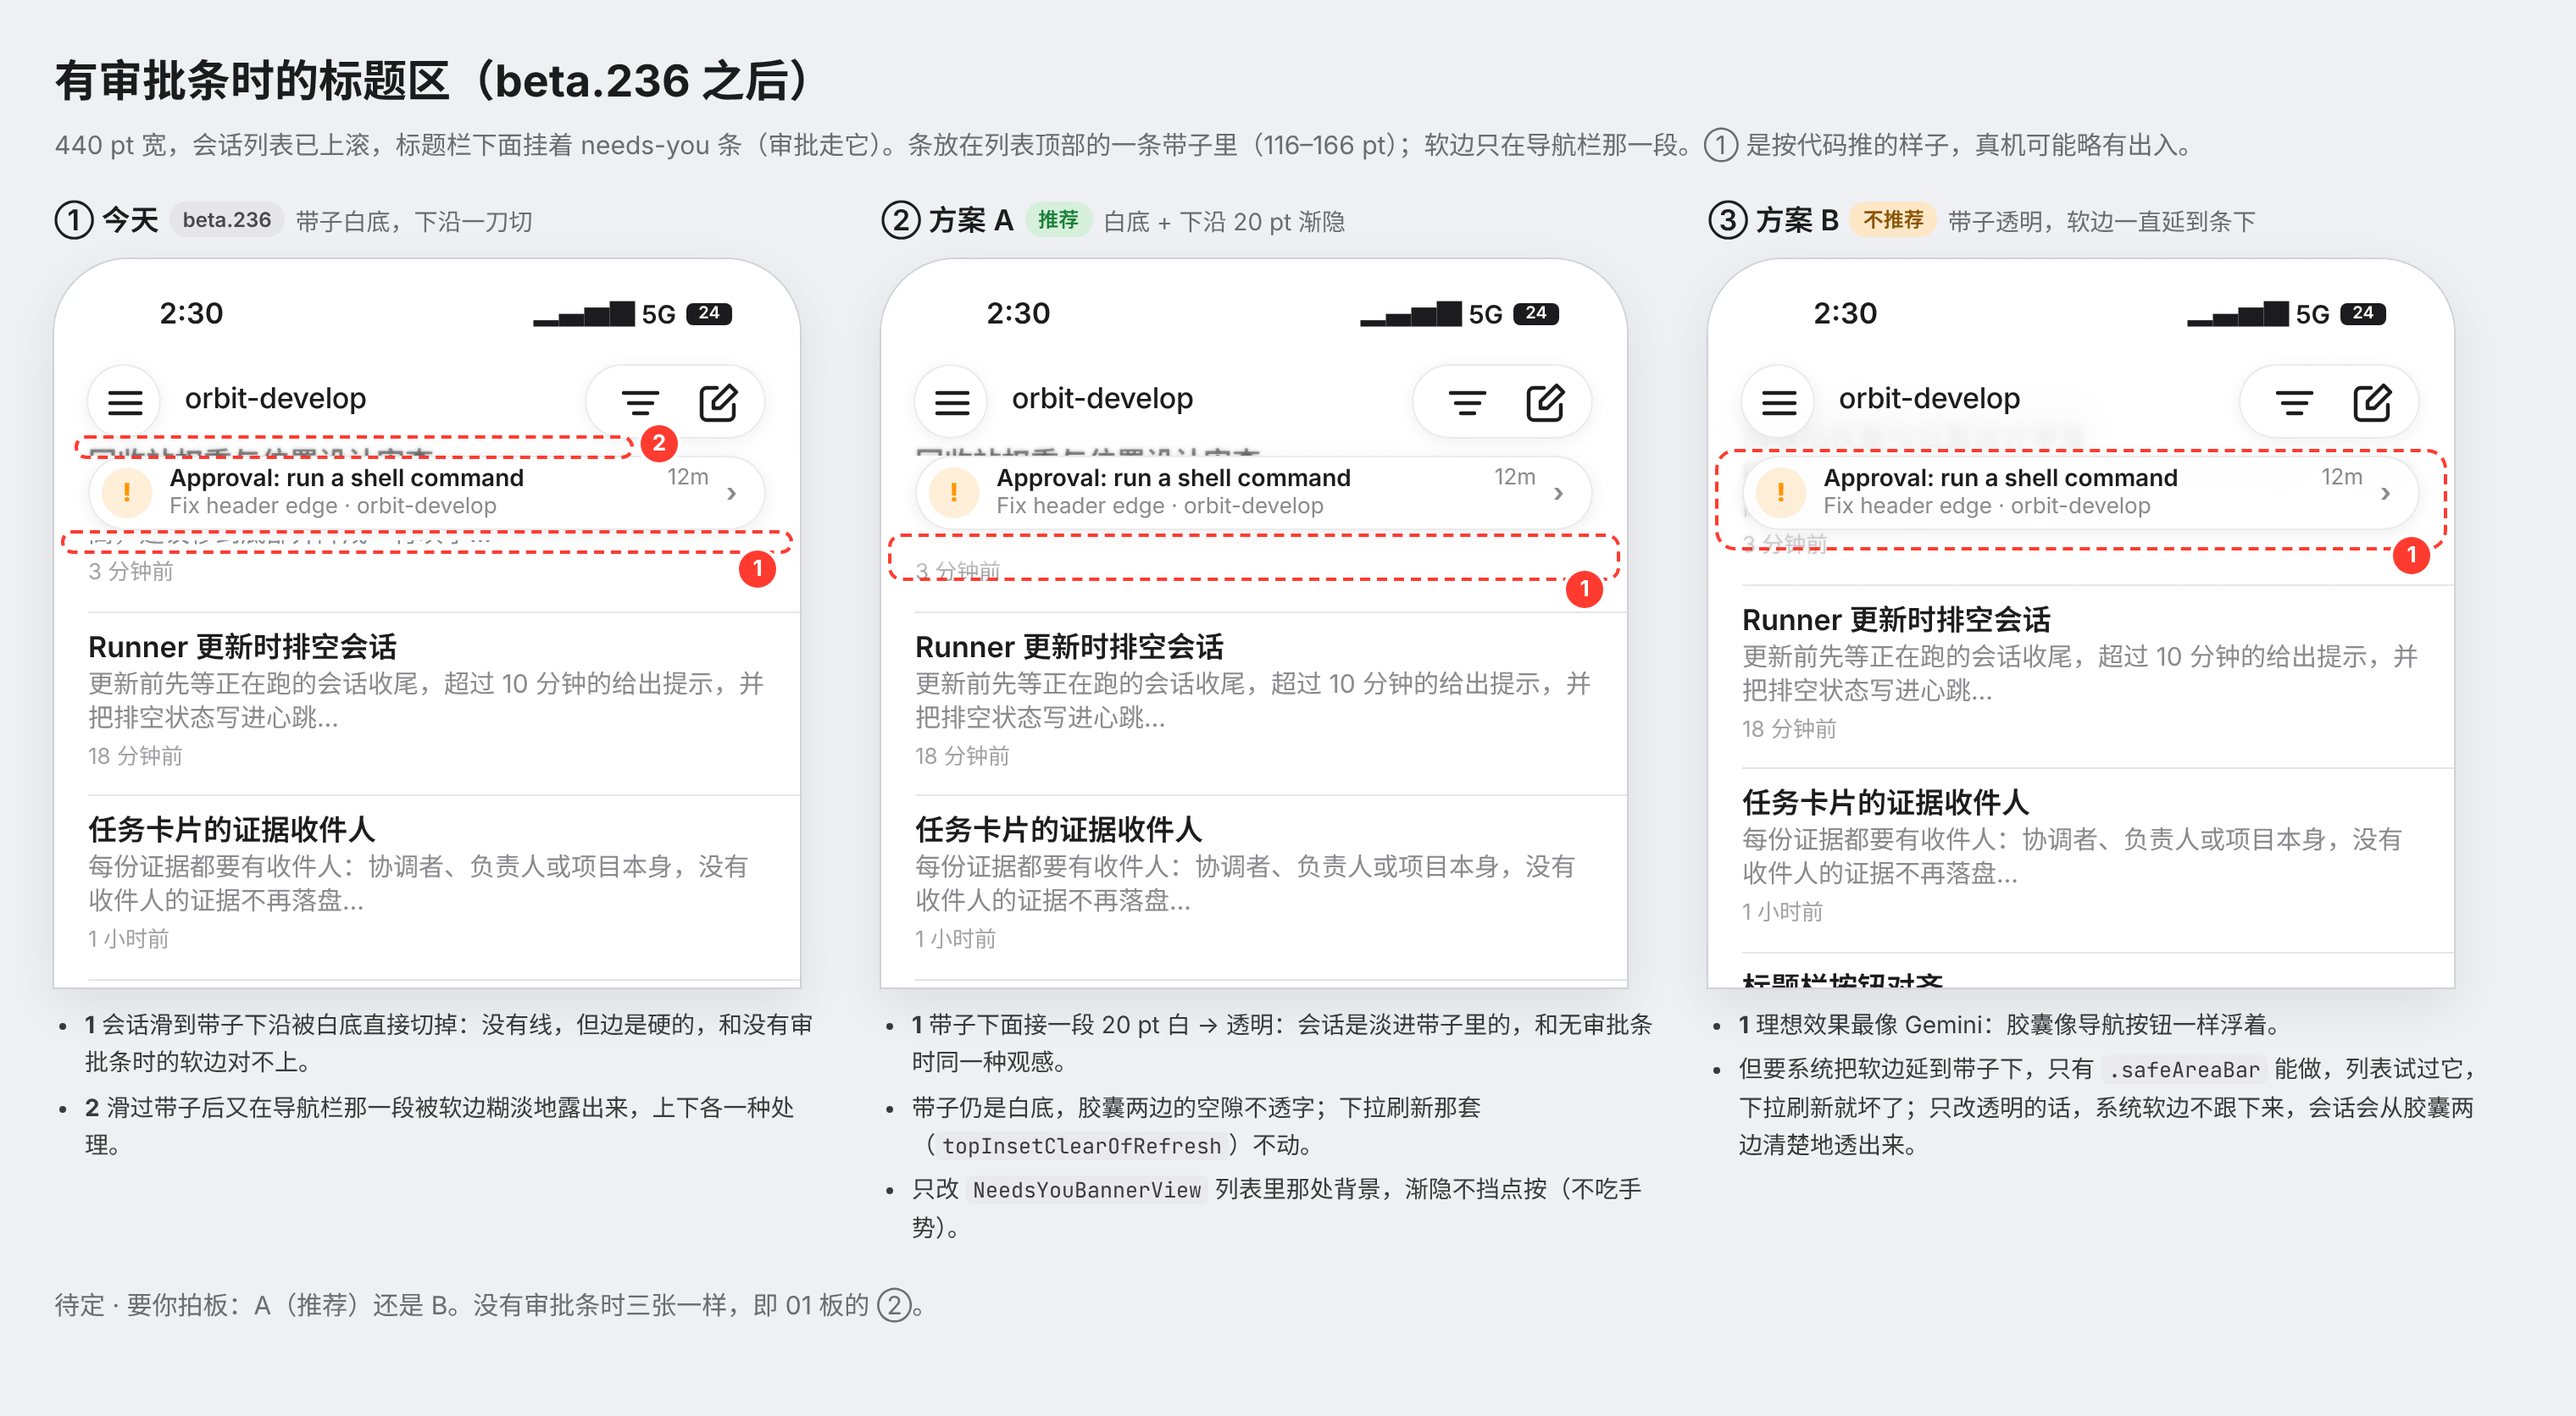
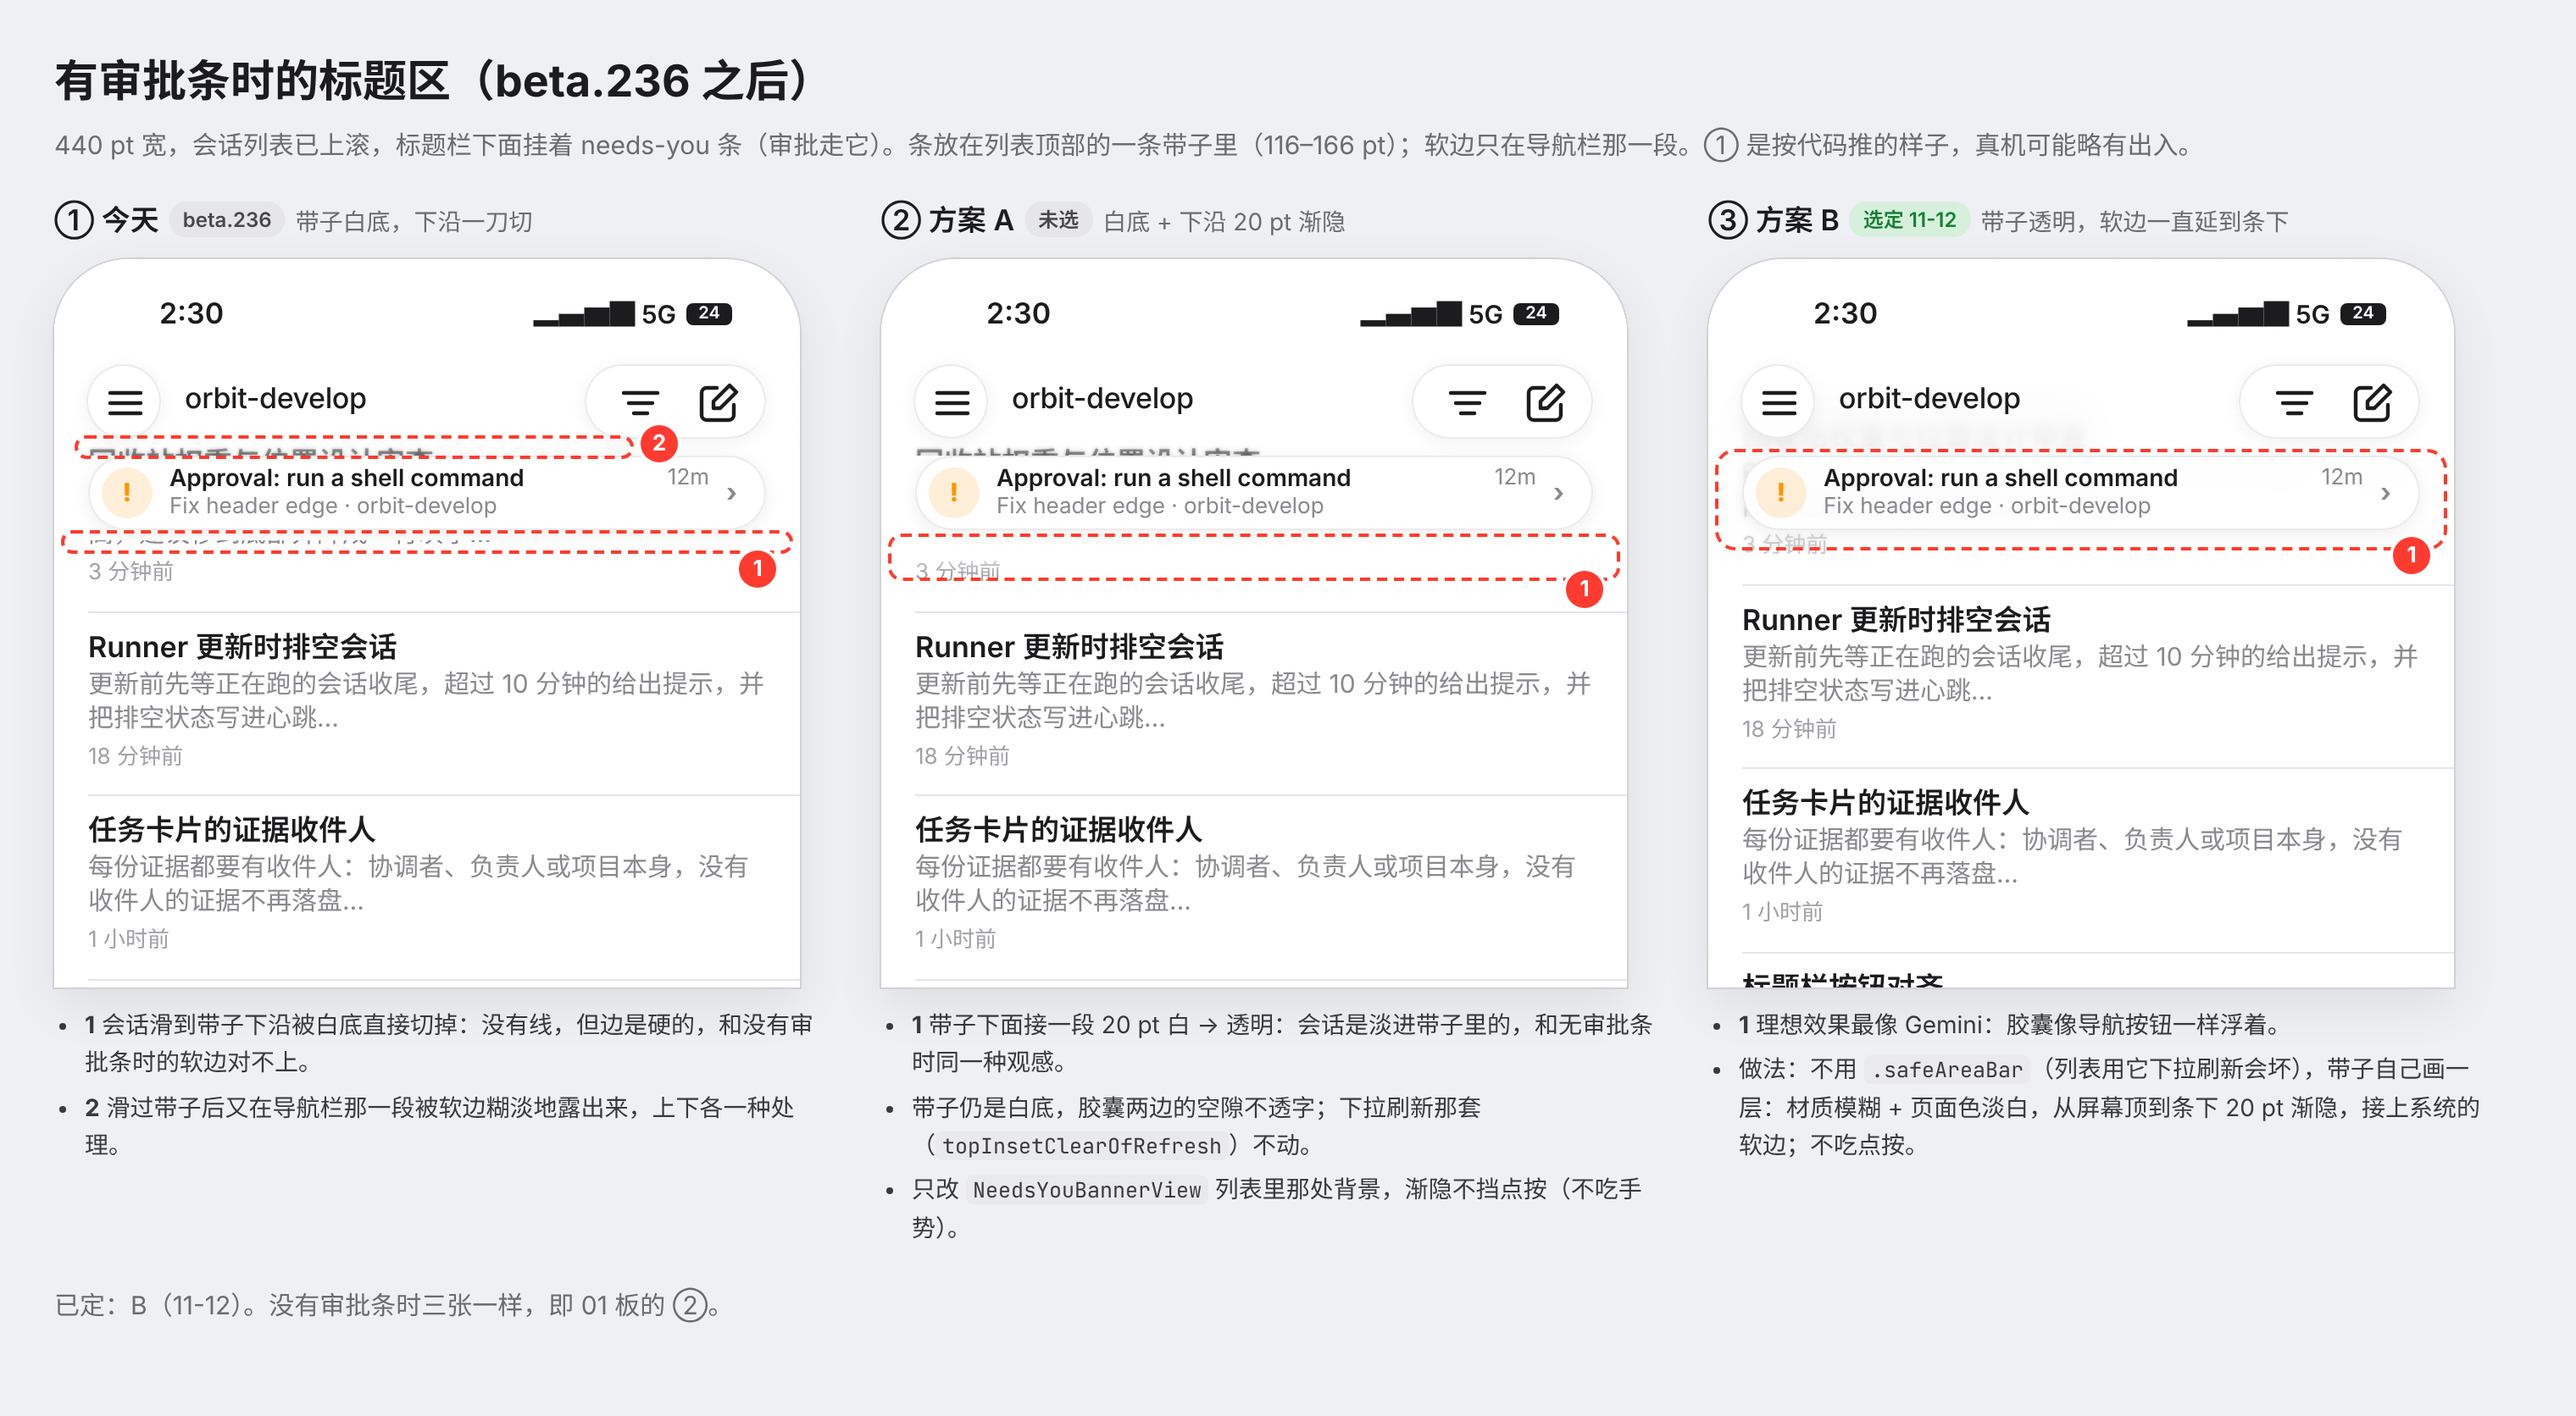
feat(ios): the needs-you bar over the Sessions list stands on the soft edge
On iOS 26 the bar over the Sessions list no longer stands on the page's
colour, which cut the rows off hard at its lower edge. It draws the soft
edge on down under itself: a material blur and a wash of the page's colour
from the top of the screen, fading out 20pt below the bar, joining the
system's soft effect under the nav bar. Not a .safeAreaBar, which stops the
list pulling to refresh. The owner's pick: option B of board 02.

Changed region(s): [[0.6562, 0.7464, 0.9688, 0.8397], [0.0312, 0.9019, 0.3438, 0.933], [0.7188, 0.1244, 0.875, 0.1866]]

diff --git a/src/macos/OrbitApp/Sources/OrbitApp/Views/NeedsYouBannerView.swift b/src/macos/OrbitApp/Sources/OrbitApp/Views/NeedsYouBannerView.swift
@@ -60,6 +60,10 @@ struct NeedsYouBannerView: View {
     /// Whether a project's sessions page opens in this shell's session column (an iPad's wide
     /// shell) rather than as a page of its own — where the merge into main's card is.
     var projectInColumn = false
+    /// Mounted over the Sessions list, which meets its nav bar with the soft scroll-edge effect
+    /// (`softTopEdgeEffect`). On iOS 26 the bar then stands on that same soft edge, drawn on down
+    /// under it, instead of on the page's colour: see `listSoftEdge`.
+    var overList = false
     /// The bar's own width, for the margin that lines it up with the nav bar's buttons.
     @State private var width: CGFloat = 0
 
@@ -173,7 +177,46 @@ struct NeedsYouBannerView: View {
                     .onChange(of: proxy.size.width) { _, now in width = now }
             }
         }
-        .background(floats ? Color.clear : Color(uiColor: .systemBackground))
+        .background { surface }
+    }
+
+    @ViewBuilder private var surface: some View {
+        if floats {
+            Color.clear
+        } else if overList {
+            if #available(iOS 26.0, *) { listSoftEdge } else { Color(uiColor: .systemBackground) }
+        } else {
+            Color(uiColor: .systemBackground)
+        }
+    }
+
+    /// The soft edge carried on down under the bar on the Sessions list (the owner, 2026-11-12,
+    /// option B of docs/mocks/ios-header-soft-edge/02-board.html). The system's soft effect sits
+    /// under the nav bar only: this bar is a top inset, not a `.safeAreaBar` (which stops the list
+    /// pulling to refresh, see `AgentPanes`), so on the page's colour the rows were cut off hard at
+    /// its lower edge. So it draws its own: a material blur and a wash of the page's colour, both
+    /// full from the top of the screen (up behind the nav bar, joining the system's) and fading to
+    /// nothing 20pt below the bar, so rows blur and fade into it rather than end at a line. It takes
+    /// no touches; the rows under it scroll as before.
+    private var listSoftEdge: some View {
+        let page = Color(uiColor: .systemBackground)
+        let fade = Gradient(stops: [
+            .init(color: .black, location: 0),
+            .init(color: .black, location: 0.6),
+            .init(color: .clear, location: 1),
+        ])
+        return ZStack {
+            Rectangle().fill(.ultraThinMaterial)
+                .mask(LinearGradient(gradient: fade, startPoint: .top, endPoint: .bottom))
+            LinearGradient(stops: [
+                .init(color: page.opacity(0.92), location: 0),
+                .init(color: page.opacity(0.7), location: 0.6),
+                .init(color: page.opacity(0), location: 1),
+            ], startPoint: .top, endPoint: .bottom)
+        }
+        .padding(.bottom, -20)
+        .ignoresSafeArea(edges: .top)
+        .allowsHitTesting(false)
     }
 }
 

diff --git a/docs/mocks/ios-header-soft-edge/02-board.html b/docs/mocks/ios-header-soft-edge/02-board.html
@@ -107,7 +107,7 @@
       </ul>
     </div>
     <div class="b-col">
-      <p class="b-cap">② 方案 A<span class="b-tag rec">推荐</span><small>白底 + 下沿 20 pt 渐隐</small></p>
+      <p class="b-cap">② 方案 A<span class="b-tag now">未选</span><small>白底 + 下沿 20 pt 渐隐</small></p>
       <div class="ph" id="p2"></div>
       <ul class="b-notes">
         <li><b>1</b> 带子下面接一段 20 pt 白 → 透明：会话是淡进带子里的，和无审批条时同一种观感。</li>
@@ -116,15 +116,15 @@
       </ul>
     </div>
     <div class="b-col">
-      <p class="b-cap">③ 方案 B<span class="b-tag alt">不推荐</span><small>带子透明，软边一直延到条下</small></p>
+      <p class="b-cap">③ 方案 B<span class="b-tag rec">选定 11-12</span><small>带子透明，软边一直延到条下</small></p>
       <div class="ph" id="p3"></div>
       <ul class="b-notes">
         <li><b>1</b> 理想效果最像 Gemini：胶囊像导航按钮一样浮着。</li>
-        <li>但要系统把软边延到带子下，只有 <code>.safeAreaBar</code> 能做，列表试过它，下拉刷新就坏了；只改透明的话，系统软边不跟下来，会话会从胶囊两边清楚地透出来。</li>
+        <li>做法：不用 <code>.safeAreaBar</code>（列表用它下拉刷新会坏），带子自己画一层：材质模糊 + 页面色淡白，从屏幕顶到条下 20 pt 渐隐，接上系统的软边；不吃点按。</li>
       </ul>
     </div>
   </div>
-  <p class="b-sub" style="margin-top:18px">待定 · 要你拍板：A（推荐）还是 B。没有审批条时三张一样，即 01 板的 ②。</p>
+  <p class="b-sub" style="margin-top:18px">已定：B（11-12）。没有审批条时三张一样，即 01 板的 ②。</p>
 </section>
 
 <script>

diff --git a/src/macos/OrbitKit/Tests/OrbitKitTests/ListHeaderEdgeWiringTests.swift b/src/macos/OrbitKit/Tests/OrbitKitTests/ListHeaderEdgeWiringTests.swift
@@ -52,6 +52,23 @@ final class ListHeaderEdgeWiringTests: XCTestCase {
         XCTAssertFalse(console.contains("softTopEdgeEffect"), "the transcript keeps the 11-11 rule")
     }
 
+    /// With the needs-you bar over the Sessions list, the soft edge carries on under the bar
+    /// (iOS 26) rather than the bar standing on the page's colour, which cut the rows off at its
+    /// lower edge (the owner, 2026-11-12, option B of 02-board.html).
+    func testTheNeedsYouBarOverTheListStandsOnTheSoftEdge() throws {
+        let sessions = section(try source(views + "AgentsView.swift"),
+                               from: ".topInsetClearOfRefresh {", to: "#endif")
+        XCTAssertTrue(sessions.contains("overList: true"), "the Sessions list mounts it over the list")
+        let banner = try source(views + "NeedsYouBannerView.swift")
+        let surface = section(banner, from: "@ViewBuilder private var surface", to: "private var listSoftEdge")
+        XCTAssertTrue(surface.contains("else if overList {"))
+        XCTAssertTrue(surface.contains("listSoftEdge"))
+        let edge = section(banner, from: "private var listSoftEdge: some View {", to: "\n}")
+        XCTAssertTrue(edge.contains(".ignoresSafeArea(edges: .top)"), "up behind the nav bar")
+        XCTAssertTrue(edge.contains(".padding(.bottom, -20)"), "fading out 20pt below the bar")
+        XCTAssertTrue(edge.contains(".allowsHitTesting(false)"), "taking no touches")
+    }
+
     func testBareBarTitlesAreBodyMedium() throws {
         let identity = try source(views + "AgentIdentity.swift")
         XCTAssertTrue(identity.contains("static let barTitle = Font.body.weight(.medium)"))

diff --git a/src/macos/OrbitApp/Sources/OrbitApp/Views/AgentsView.swift b/src/macos/OrbitApp/Sources/OrbitApp/Views/AgentsView.swift
@@ -544,7 +544,8 @@ struct AgentPanes: View {
                     .background(.bar)
                 }
                 NeedsYouBannerView(excluding: app.selectedAgentSessionID,
-                                   projectInColumn: rowNavigation == .selection)
+                                   projectInColumn: rowNavigation == .selection,
+                                   overList: true)
             }
         }
         #endif
